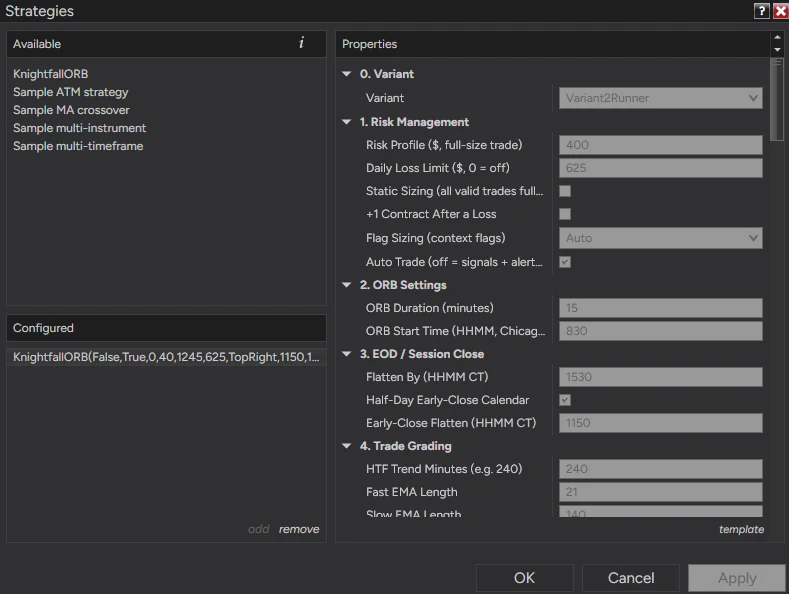
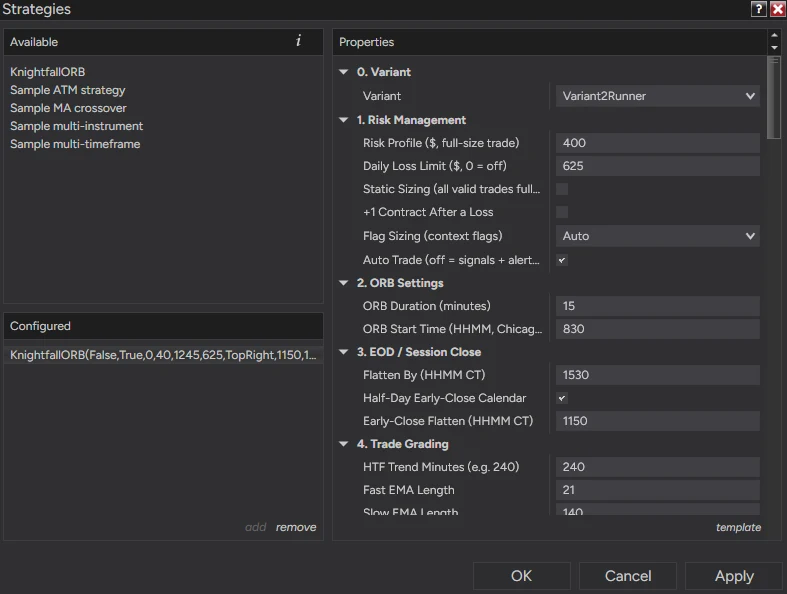
Add files via upload

diff --git a/ninjatrader-members.html b/ninjatrader-members.html
@@ -165,7 +165,7 @@
                   <li><b>Import</b>: Tools → Import → NinjaScript Add-On. Restart NinjaTrader. <a href="#s1" class="text-green-400 font-bold">Step 1</a></li>
                   <li><b>Merge policy</b>: Tools → Settings → Market data → Merge non back adjusted. <a href="#s2" class="text-green-400 font-bold">Step 2A</a></li>
                   <li><b>Chart</b>: MNQ or NQ, 5 Minute, Last, 365 days, CME US Index Futures ETH. <a href="#s2" class="text-green-400 font-bold">Step 2B</a></li>
-                  <li><b>Add KnightfallORB.</b> Set Variant, Risk Profile, Daily Loss Limit and the correct Account (<span class="nt-code">Sim101</span> first). Then tick Enabled. <a href="#s3" class="text-green-400 font-bold">Step 3</a></li>
+                  <li><b>Add KnightfallORB.</b> Set Variant, Risk Profile, Daily Loss Limit, Auto Trade (on = auto, off = you trade manually) and the correct Account (<span class="nt-code">Sim101</span> first). Then tick Enabled. <a href="#s3" class="text-green-400 font-bold">Step 3</a></li>
                   <li><b>Save</b> the Data Series preset as default and save your workspace. <a href="#s2" class="text-green-400 font-bold">Step 2C</a></li>
                   <li><b>Check the dashboard</b>: v1.4.1 in the header, no red warning rows. <a href="#s6" class="text-green-400 font-bold">Step 6</a></li>
                   <li><b>Watch it on Sim</b> for a few sessions before any live or prop account. <a href="#s7" class="text-green-400 font-bold">Step 7</a></li>
@@ -246,12 +246,13 @@
                   <li>Right-click the chart → <b>Strategies…</b> (<span class="nt-code">Ctrl+S</span>).
                     <div class="nt-shot" data-shot="nt-chart-menu-strategies"><img src="nt-chart-menu-strategies.webp" alt="Chart right-click menu with Strategies highlighted" loading="lazy" width="316" height="646" style="max-width:min(100%,260px)"></div></li>
                   <li>Under Available, double-click <b>KnightfallORB</b>. It moves to Configured and its settings open on the right, starting with <b>0. Variant</b> and <b>1. Risk Management</b>.
-                    <div class="nt-shot" data-shot="nt-strategies-window"><img src="nt-strategies-window.webp" alt="Strategies window: KnightfallORB configured, Variant 2 Runner, Risk Profile 400, Daily Loss Limit 625, Flag Sizing Auto" loading="lazy" width="789" height="594"></div></li>
-                  <li><b>Before you enable, check these four:</b>
+                    <div class="nt-shot" data-shot="nt-strategies-window"><img src="nt-strategies-window.webp" alt="Strategies window: KnightfallORB configured, Variant 2 Runner, Risk Profile 400, Daily Loss Limit 625, Flag Sizing Auto" loading="lazy" width="787" height="594"></div></li>
+                  <li><b>Before you enable, check these five:</b>
                     <ul class="mt-2 space-y-1" style="list-style:disc;padding-left:18px">
                       <li><b>Variant</b>: Variant 2 Runner unless you have a reason to change it.</li>
                       <li><b>Risk Profile ($)</b>: your dollar risk on a full-size trade.</li>
                       <li><b>Daily Loss Limit ($)</b>: your own number. 0 means off.</li>
+                      <li><b>Auto Trade</b>: <b>on</b> = it places and manages the trades for you. <b>Off</b> = signals only (popup and sound with direction, grade, contracts, entry, stop and TP1), and you place the trade yourself.</li>
                       <li><b>Account</b>: the exact account it will trade. Use <span class="nt-code">Sim101</span> first. On a fleet, double-check you picked the right one.</li>
                     </ul></li>
                   <li>Leave <b>Start behavior</b> on <b>Wait until flat</b>. If you enable it mid-session, it waits instead of jumping into a trade already running.</li>
@@ -288,7 +289,7 @@
                     <tr><td>+1 Contract After a Loss</td><td>Off</td><td>Adds one contract to the next trade after a loss</td></tr>
                   </table>
                 </div>
-                <div class="nt-shot" data-shot="nt-settings-top"><img src="nt-settings-top.webp" alt="Strategy settings: 0. Variant set to Variant 2 Runner, 1. Risk Management with Risk Profile, Daily Loss Limit, Flag Sizing and Auto Trade" loading="lazy" width="454" height="415" style="max-width:min(100%,420px)"></div>
+                <div class="nt-shot" data-shot="nt-settings-top"><img src="nt-settings-top.webp" alt="Strategy settings: 0. Variant set to Variant 2 Runner, 1. Risk Management with Risk Profile, Daily Loss Limit, Flag Sizing and Auto Trade" loading="lazy" width="454" height="412" style="max-width:min(100%,420px)"></div>
                 <p class="nt-p mt-3"><b>Our two setups:</b> V2 Runner at $250 Risk Profile (Flag Sizing off by Auto), Daily Loss Limit $500. V2 Runner at $400 Risk Profile (Flag Sizing on by Auto), Daily Loss Limit $625. <a href="results.html#risk-profiles" class="text-green-400 font-bold">See them tested, or size for your account &rarr;</a></p>
                 <p class="nt-p mt-2">Locked by the variant (V1/V2): ORB 8:30&ndash;8:45 CT, Minimum Grade C, Max Trades Per Session 3, Entry Cutoff 12:45 PM CT, Flatten By 3:30 PM CT (11:50 AM on half-days). Display settings only change what's drawn. They never affect trades.</p>
               </div>
